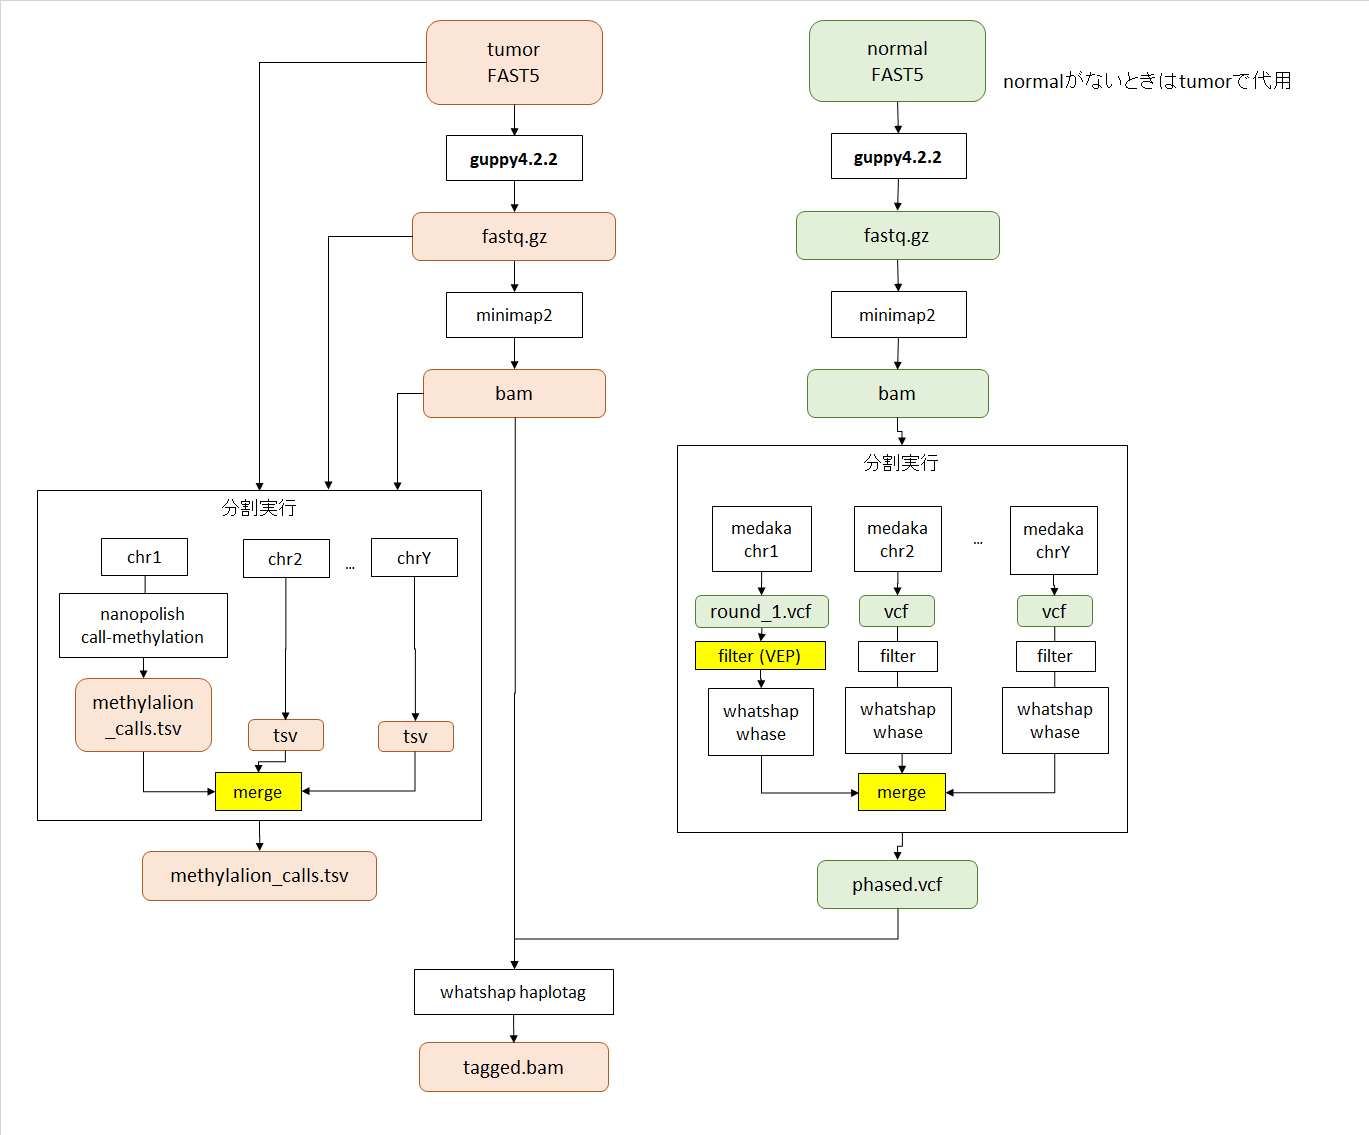
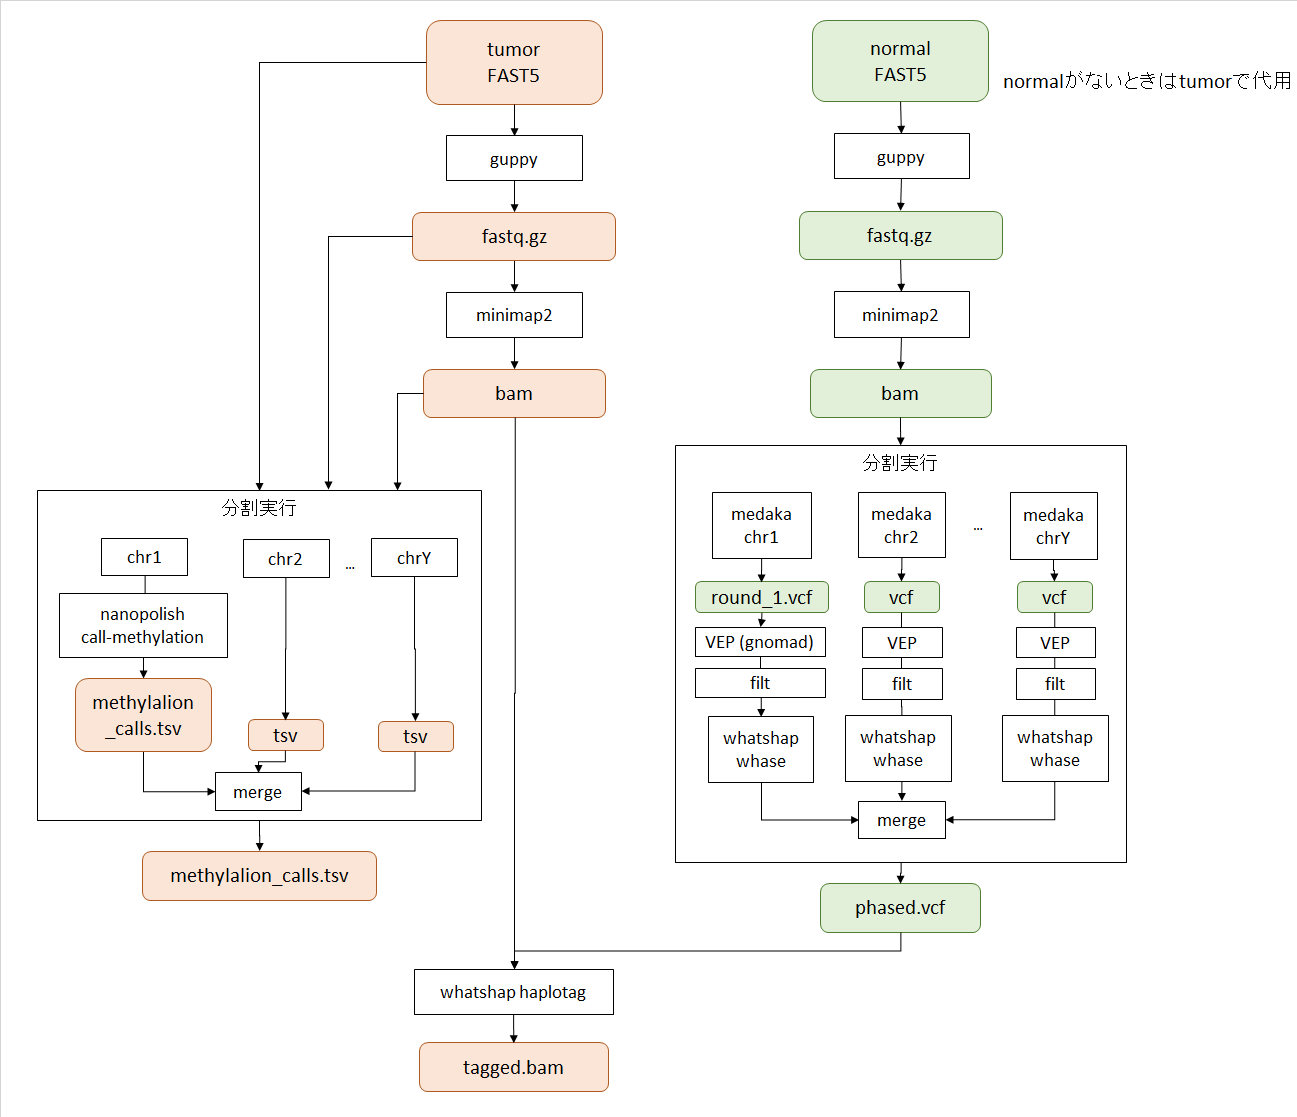
update run.sh

diff --git a/README.md b/README.md
@@ -36,9 +36,6 @@ OUTPUT_ROOT="固定ならここで変えておく"
 <img src="./doc/flow.png" />
 
 ※1 guppyは終了しているものとする  
-※2 vepによるフィルタリングはまだ無い  
-※3 nanopolishの結果マージはまだ無い  
-※4 whatshap phaseの結果マージはまだ無い  
 
 1. scripts/sample ディレクトリをコピー
 
@@ -60,43 +57,10 @@ sample1_normal
  - singularity_whatshap_phase.sh
 ```
 
-2. minimap2
+3. ジョブの投入
 
-qsubで投入
-
-```
-qsub ./script/singularity_minimap2.sh
-```
-
-3. nanopolish
-
-以下で投入
+全実行
 
 ```
-bash run_nanopolish.sh
+bash run.sh
 ```
-
-4. medaka
-
-以下で投入
-
-```
-bash run_medaka_cpu.sh
-```
-
-5. whatshap phase
-
-以下で投入
-
-```
-bash run_whatshap_phase.sh
-```
-
-6. whatshap haplotag
-
-qsubで投入
-
-```
-qsub singularity_whatshap_haplotag.sh
-```
-
